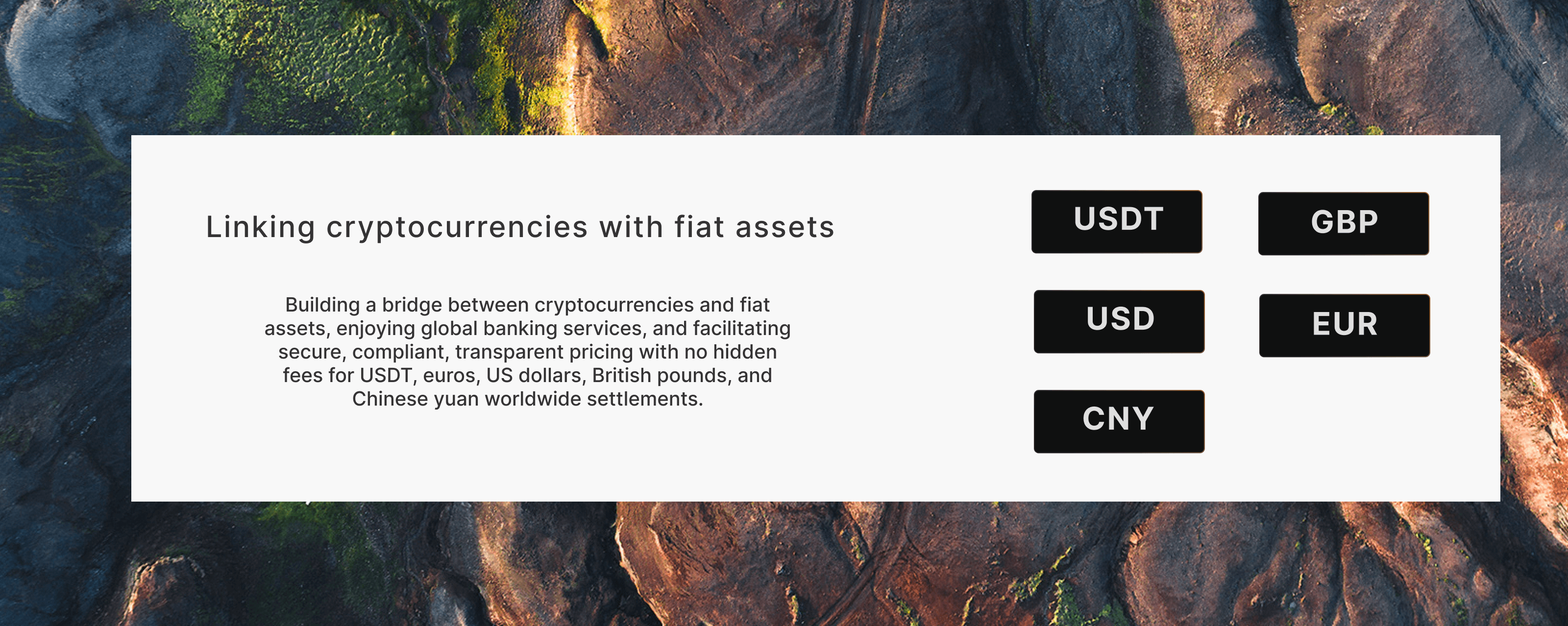
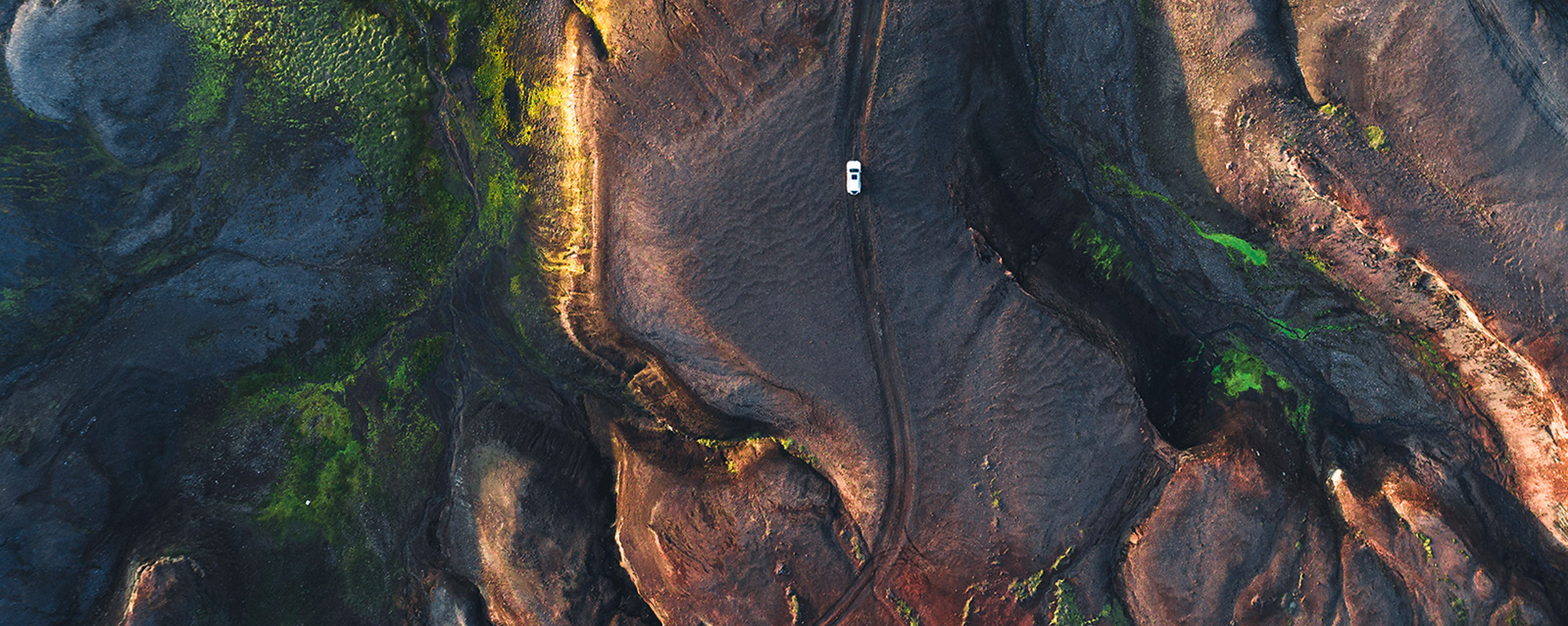
多语言60%

diff --git a/src/language/po.js b/src/language/po.js
@@ -22,7 +22,24 @@ export default {
     text2: 'Clientes de bancos privados podem usar criptomoedas como ativos subjacentes para a alocação global de ativos, adquirindo produtos e serviços bancários privados globais, fornecendo uma solução única para a custódia e alocação de ativos para os novos ricos em criptomoedas. Se você tiver algum requisito personalizado, entre em contato conosco.',
     text3: 'O Banco Central Europeu exige que bancos privados divulguem periodicamente sua situação financeira e perfil de risco ao público. Qualquer pessoa pode acessar informações relevantes no site oficial do Banco Bison para entender a situação operacional do banco.'
   },
+  cover: {
+    title: 'Conectando criptoativos e ativos fiduciários',
+    text: 'Construindo uma ponte entre ativos cripto e fiduciários, desfrute de serviços bancários globais, USDT, Euro, Dólar Americano, Libra Esterlina, RMB liquidação global rápida, segura e em conformidade, com preços transparentes, sem taxas ocultas.'
+  },
   coverTitle: {
     title: 'Conectando criptoativos e ativos fiduciários',
+    subTitle1: 'Valorizamos a privacidade e proteção do usuário, cumprindo rigorosamente as leis e padrões',
+    subTitle2: 'relevantes da indústria, garantindo a segurança das informações pessoais e ativos dos clientes.'
+  },
+  leftCover: {
+    title1: 'Limiar necessário para se tornar um',
+    title2: 'investidor qualificado',
+    text: 'O limiar de capital para se tornar um cliente de banco privado é de apenas 100.000 euros equivalentes em ativos cripto e as informações de identificação pessoal necessárias. Consultores profissionais ajudarão você a lidar com questões de conformidade, atualmente limitadas a 100 pessoas.'
+  },
+  bankTitle: {
+    title: 'Cartão de débito cripto Visa',
+    text1: 'The Bison Crypto Visa Card is coming soon and is currently only available for free to Bison Premier Banking users, enjoying the global Visa',
+    text2: 'payment and settlement network, real-time exchange for multiple currencies such as cryptocurrencies, euros, US dollars, and Chinese yuan,',
+    text3: 'bringing cryptocurrencies into everyday life.',
   }
 }

diff --git a/src/language/en.js b/src/language/en.js
@@ -22,7 +22,24 @@ export default {
     text2: 'Private banking clients can use cryptocurrencies as underlying assets for global asset allocation, purchase global private banking wealth management products, and provide one-stop asset custody and configuration solutions for new cryptocurrency investors. For any customized needs, please contact us.',
     text3: "The European Central Bank requires private banks to disclose financial and risk conditions to the public on a regular basis. Anyone can inquire about related information on the Bison bank official website to understand the bank's operations."
   },
+  cover: {
+    title: "Linking cryptocurrencies with fiat assets",
+    text: 'Building a bridge between cryptocurrencies and fiat assets, enjoying global banking services, and facilitating secure, compliant, transparent pricing with no hidden fees for USDT, euros, US dollars, British pounds, and Chinese yuan worldwide settlements. '
+  },
   coverTitle: {
     title: 'Customer privacy protection',
+    subTitle1: 'We attach great importance to user privacy and protection, strictly comply with relevant laws and industry standards, and',
+    subTitle2: 'ensure the security of customer personal information and assets.'
+  },
+  leftCover: {
+    title1: 'The necessary threshold for becoming',
+    title2: 'a qualified investor',
+    text: 'The threshold for becoming a private banking client is only €100,000 worth of cryptocurrency assets and necessary personal identity information.Lawyers will assist you in handling related compliance matters. Currently, only 100 clients are accepted.'
+  },
+  bankTitle: {
+    title: 'Bison Crypto Card',
+    text1: 'The Bison Crypto Visa Card is coming soon and is currently only available for free to Bison Premier Banking users, enjoying',
+    text2: 'the global Visa payment and settlement network, real-time exchange for multiple currencies such as cryptocurrencies,',
+    text3: 'euros, US dollars, and Chinese yuan, bringing cryptocurrencies into everyday life.',
   }
 }

diff --git a/src/language/zh-cn.js b/src/language/zh-cn.js
@@ -22,7 +22,24 @@ export default {
     text2: '私人银行客户可以加密货币作为底层资产，进行全球化资产配置，购置全球私人银行产品及服务，为加密新贵提供一站式资产托管、配置解决方案，如您有任何定制化需求，请于我们取得联系',
     text3: '欧洲央行要求私人银行定期向公众披露财务状况、风险状况，任何人可以在贝森银行官网查询相关信息，了解银行经营情况',
   },
+  cover: {
+    title: '链接加密与法币资产',
+    text: '构建加密资产与法币资产的桥梁，享受全球范围内的银行服务，USDT、欧元、美元、英镑、人民币全球快速结算，安全合规，透明定价，无隐藏费用'
+  },
   coverTitle: {
     title: '客户隐私保护',
+    subTitle1: '我们重视用户隐私与保护，严格遵守相关法规与行业规范，确保客户的个人信息与资产安全',
+    subTitle2: ''
+  },
+  leftCover: {
+    title1: '成为合格投资者的必要门槛',
+    title2: '',
+    text: '成为私人银行客户的资金门槛仅为10万欧元等值的加密资产，及必要的个人身份信息，专业顾问会帮助您处理合规事宜，目前仅限100位。'
+  },
+  bankTitle: {
+    title: '加密借记visa卡',
+    text1: '贝森银行加密借记visa卡即将发布，目前仅限Bison Premier Banking用户免费开通，',
+    text2: '畅享全球visa支付结算网络，加密货币、欧元、美元、人民币等多币种实时汇兑，加',
+    text3: '密货币真正走进生活。',
   }
 }

diff --git a/src/views/home/components/cover.vue b/src/views/home/components/cover.vue
@@ -5,6 +5,19 @@
       src="@/assets/images/p4.png"
       alt=""
     >
+    <div class="cover-content">
+      <div class="left">
+        <p class="title">{{$t('cover.title')}}</p>
+        <p class="text">{{$t('cover.text')}}</p>
+      </div>
+      <div class="right">
+        <p class="item">USDT</p>
+        <p class="item">GBP</p>
+        <p class="item">USD</p>
+        <p class="item">EUR</p>
+        <p class="item">CNY</p>
+      </div>
+    </div>
   </div>
 </template>
 
@@ -18,6 +31,62 @@ import {} from 'vue'
   .coverimg {
     margin-top: 0.8rem;
     width: 100%;
+  }
+}
+
+.cover-content {
+  padding: .48rem;
+  position: absolute;
+  top: .72rem;
+  left: .72rem;
+  right: .72rem;
+  bottom: .72rem;
+  z-index: 10;
+  display: flex;
+  align-items: center;
+  background-color: #fff;
+  box-sizing: border-box;
+
+  .left {
+    padding: 0 1.28rem;
+    flex: 1;
+    color: #000;
+  }
+
+  .title {
+    padding-bottom: .24rem;
+    font-size: .144rem;
+    text-align: center;
+  }
+
+  .text {
+    font-size: 14px;
+    text-align: center;
+    line-height: 1.3;
+  }
+
+  .right {
+    display: flex;
+    flex-wrap: wrap;
+    justify-content: space-between;
+    width: 1.84rem;
+    flex-shrink: 0;
+
+    .item {
+      margin-bottom: .16rem;
+      width: .8rem;
+      height: .32rem;
+      font-size: .128rem;
+      font-weight: bold;
+      color: #fff;
+      background-color: #000;
+      border-radius: .032rem;
+      text-align: center;
+      line-height: .32rem;
+      &:last-of-type {
+        margin-bottom: 0;
+      }
+    }
   }
 }
 

diff --git a/src/views/home/components/left-cover.vue b/src/views/home/components/left-cover.vue
@@ -3,12 +3,9 @@
     <div class="left-cover-body">
       <img src="@/assets/images/p9.png" alt="">
       <div class="right-text">
-        <p class="title">The necessary threshold for becoming</p>
-        <p class="title">a qualified investor</p>
-        <p class="text">The threshold for becoming a private banking client is only €100,000 worth</p>
-        <p class="text">of cryptocurrency assets and necessary personal identity</p>
-        <p class="text">information.Lawyers will assist you in handling related compliance matters.</p>
-        <p class="text">Currently, only 100 clients are accepted.</p>
+        <p class="title">{{$t('leftCover.title1')}}</p>
+        <p class="title" v-if="$t('leftCover.title2')">{{$t('leftCover.title2')}}</p>
+        <p class="text">{{$t('leftCover.text')}}</p>
       </div>
     </div>
   </div>
@@ -31,30 +28,32 @@ import {} from 'vue'
     align-items: center;
   }
   img {
-    width: 50%;
+    width: 40%;
   }
 
   .right-text {
+    margin-left: 10%;
+    width: 50%;
     padding: 0 .72rem;
     display: flex;
     flex-direction: column;
   }
 
   .title {
-    font-size: .128rem;
+    font-size: .16rem;
     font-weight: bold;
     text-align: center;
 
     &:nth-child(2) {
-      padding-top: .08rem;
-      padding-bottom: .8rem;
+      padding-top: 10px;
     }
   }
 
   .text {
+    padding: .8rem .48rem 0;
     font-size: 12px;
-    opacity: 0.8;
-    transform: scale(0.6);
+    text-align: center;
+    line-height: 1.3;
   }
 }
 </style>

diff --git a/src/views/home/components/bank-title.vue b/src/views/home/components/bank-title.vue
@@ -1,10 +1,10 @@
 <template>
   <div class="bank-title-container">
     <div class="bank-title-box">
-      <div class="title">Bison Crypto Card</div>
-      <p class="text">The Bison Crypto Visa Card is coming soon and is currently only available for free to Bison Premier Banking users, enjoying</p>
-      <p class="text">the global Visa payment and settlement network, real-time exchange for multiple currencies such as cryptocurrencies,</p>
-      <p class="text">euros, US dollars, and Chinese yuan, bringing cryptocurrencies into everyday life.</p>
+      <div class="title">{{$t('bankTitle.title')}}</div>
+      <p class="text">{{$t('bankTitle.text1')}}</p>
+      <p class="text">{{$t('bankTitle.text2')}}</p>
+      <p class="text">{{$t('bankTitle.text3')}}</p>
       <img src="@/assets/images/p11.png" alt="">
     </div>
   </div>
@@ -22,7 +22,6 @@ import {} from 'vue'
 }
 .bank-title-container {
   padding-top: .8rem;
-  padding-left: 1.2rem;
   .bank-title-box {
     display: flex;
     flex-direction: column;
@@ -40,8 +39,7 @@ import {} from 'vue'
 
   .text {
     font-size: 12px;
-    opacity: 0.9;
-    transform: scale(0.8);
+    line-height: 1.3;
   }
 
   img {

diff --git a/src/views/home/components/cover-title.vue b/src/views/home/components/cover-title.vue
@@ -1,8 +1,8 @@
 <template>
   <div class="home-cover-title">
     <p class="title">{{$t('coverTitle.title')}}</p>
-    <p class="sub-title"> We attach great importance to user privacy and protection, strictly comply with relevant laws and</p>
-    <p class="sub-title">industry standards, and ensure the security of customer personal information and assets.</p>
+    <p class="sub-title">{{$t('coverTitle.subTitle1')}}</p>
+    <p class="sub-title" v-if="$t('coverTitle.subTitle2')">{{$t('coverTitle.subTitle2')}}</p>
     <img
       src="@/assets/images/p13.png"
       alt=""
